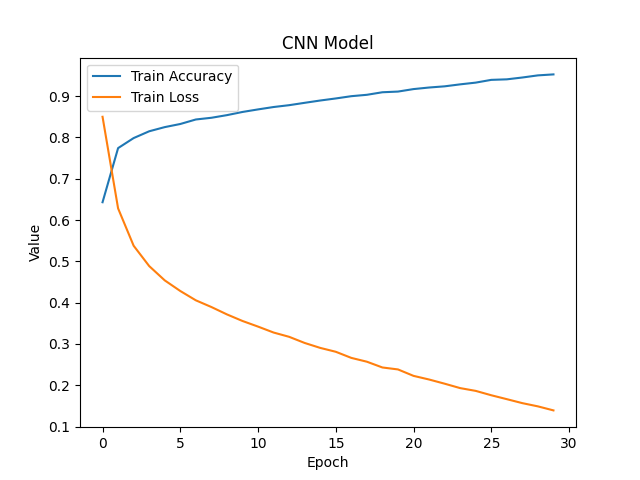
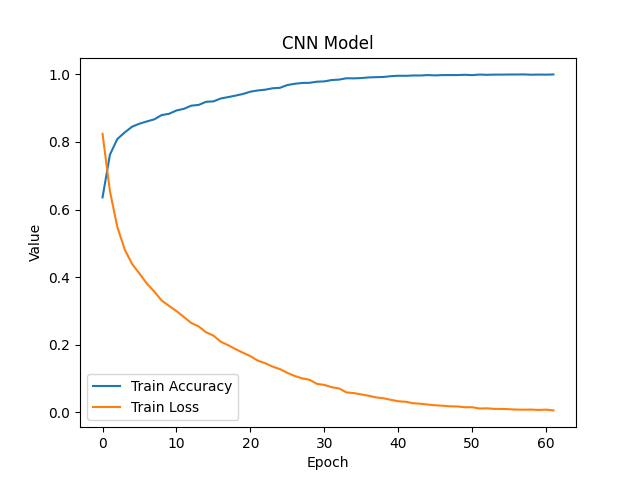
upgrade glove side

diff --git a/glove/sentimentModel.py b/glove/sentimentModel.py
@@ -1,76 +1,22 @@
 import numpy as np
 
 from constants import *
-from BiLSTM import BiLSTM
-from LSTM import LSTM
-from CNN import CNN
-from gloveEmbedding import usingGlove, getEmbeddingMatrix
-from Ensemble_CNN_BILSTM import CNN_BILSTM as En_CNN_BILSTM
-from Fusion_CNN_BILSTM import CNN_BILSTM as Fu_CNN_BILSTM
+from models.BILSTM import BiLSTM
+from models.LSTM import LSTM
+from models.CNN import CNN
+from gloveEmbedding import usingGlove2, getEmbeddingMatrix
+from models.Ensemble_CNN_BILSTM import CNN_BILSTM as En_CNN_BILSTM
+from models.Fusion_CNN_BILSTM import CNN_BILSTM as Fu_CNN_BILSTM
 
 # Dataset Prepare
-title_train_ids, text_train_ids, train_labels, title_val_ids, text_val_ids, val_labels, title_test_ids, text_test_ids, test_labels, tokenizer = usingGlove()
-# vocab_size = len(tokenizer.word_index) + 1
-# emb_mat = getEmbeddingMatrix(tokenizer, vocab_size)
+title_train_ids, text_train_ids, train_labels, title_val_ids, text_val_ids, val_labels, title_test_ids, text_test_ids, test_labels, tokenizer = usingGlove2()
+vocab_size = len(tokenizer.word_index) + 1
+emb_mat = getEmbeddingMatrix(tokenizer, vocab_size)
 
 # # MODEL IMPLEMENTATION AND TRAINING
-# def startLearning():
-#   print('TRAINING USING LSTM MODEL.........................')
-#   lstm = LSTM(
-#     title_train_ids,
-#     text_train_ids,
-#     train_labels,
-#     title_val_ids,
-#     text_val_ids,
-#     val_labels,
-#     vocab_size,
-#     emb_mat
-#   )
-
-#   lstm.trainModel()
-#   lstm.testModel(
-#     [np.array(title_test_ids), np.array(text_test_ids)], 
-#     np.array(test_labels)
-#   )
-  
-#   print('TRAINING USING CNN MODEL.......................')
-#   cnn = CNN(
-#     title_train_ids,
-#     text_train_ids,
-#     train_labels,
-#     title_val_ids,
-#     text_val_ids,
-#     val_labels,
-#     vocab_size,
-#     emb_mat
-#   )
-
-#   cnn_model = cnn.trainModel()
-#   cnn.testModel(
-#     [np.array(title_test_ids), np.array(text_test_ids)], 
-#     np.array(test_labels)
-#   )
-  
-#   print('TRAINING USING BiLSTM MODEL......................')
-#   bilstm = BiLSTM(
-#     title_train_ids,
-#     text_train_ids,
-#     train_labels,
-#     title_val_ids,
-#     text_val_ids,
-#     val_labels,
-#     vocab_size,
-#     emb_mat
-#   )
-
-#   bilstm_model = bilstm.trainModel()
-#   bilstm.testModel(
-#     [np.array(title_test_ids), np.array(text_test_ids)], 
-#     np.array(test_labels)
-#   )
-  
-  # print('TRAINING USING ENSEMBLE CNN + BiLSTM MODEL.................')
-  # cnn_bilstm = En_CNN_BILSTM(
+def startLearning():
+  # print('TRAINING USING LSTM MODEL.........................')
+  # lstm = LSTM(
   #   title_train_ids,
   #   text_train_ids,
   #   train_labels,
@@ -78,15 +24,69 @@ title_train_ids, text_train_ids, train_labels, title_val_ids, text_val_ids, val_
   #   text_val_ids,
   #   val_labels,
   #   vocab_size,
-  #   bilstm_model,
-  #   cnn_model
+  #   emb_mat
   # )
-
-  # cnn_bilstm.trainModel()
-  # cnn_bilstm.testModel(
+  #
+  # lstm.trainModel()
+  # lstm.testModel(
   #   [np.array(title_test_ids), np.array(text_test_ids)], 
   #   np.array(test_labels)
   # )
+  # 
+  print('TRAINING USING CNN MODEL.......................')
+  cnn = CNN(
+    title_train_ids,
+    text_train_ids,
+    train_labels,
+    title_val_ids,
+    text_val_ids,
+    val_labels,
+    vocab_size,
+    emb_mat
+  )
+
+  cnn_model = cnn.trainModel()
+  cnn.testModel(
+    [np.array(title_test_ids), np.array(text_test_ids)], 
+    np.array(test_labels)
+  )
+  
+  print('TRAINING USING BiLSTM MODEL......................')
+  bilstm = BiLSTM(
+    title_train_ids,
+    text_train_ids,
+    train_labels,
+    title_val_ids,
+    text_val_ids,
+    val_labels,
+    vocab_size,
+    emb_mat
+  )
+
+  bilstm_model = bilstm.trainModel()
+  bilstm.testModel(
+    [np.array(title_test_ids), np.array(text_test_ids)], 
+    np.array(test_labels)
+  )
+  
+  print('TRAINING USING ENSEMBLE CNN + BiLSTM MODEL.................')
+  cnn_bilstm = En_CNN_BILSTM(
+    title_train_ids,
+    text_train_ids,
+    train_labels,
+    title_val_ids,
+    text_val_ids,
+    val_labels,
+    vocab_size,
+    bilstm_model,
+    cnn_model
+  )
+
+  cnn_bilstm.trainModel()
+  cnn_bilstm.testModel(
+    [np.array(title_test_ids), np.array(text_test_ids)], 
+    np.array(test_labels)
+  )
 
   # print('TRAINING USING FUSION CNN + BiLSTM MODEL.................')
   # cnn_bilstm = Fu_CNN_BILSTM(
@@ -106,4 +106,4 @@ title_train_ids, text_train_ids, train_labels, title_val_ids, text_val_ids, val_
   #   np.array(test_labels)
   # )
 
-  # print('TRAINING DONE.............................')
+  print('TRAINING DONE.............................')

diff --git a/glove/gloveEmbedding.py b/glove/gloveEmbedding.py
@@ -63,6 +63,20 @@ def getDataset(file_name):
 
   return train_test_split(title, text, label, test_size=0.1)
 
+def getDataset2(file_name):
+  # GET FROM CSV (ORIGINAL TEXT)
+  print('READING DATASET FROM FILE................................')
+  file = pd.read_csv(PATH + file_name)
+
+  title = file['Title'].apply(str)[:8000]
+  text = file['Content'].apply(str)[:8000]
+
+  # GET LABELS
+  label = pd.Series([status for status in file['Rating'].apply(int)[:8000]])
+  label = utils.to_categorical(label - 1, num_classes=3)
+
+  return train_test_split(title, text, label, test_size=0.1)
+
 def usingGlove():
   title_train, title_test, text_train, text_test, train_labels, test_labels = getDataset('data.csv')
 
@@ -82,6 +96,24 @@ def usingGlove():
 
   with open(PATH + MODEL + TOKENIZER_MODEL, 'wb') as pkl_file:
     pkl.dump(tokenizer, pkl_file)
+
+  title_train_ids, text_train_ids = prepareData(title_train, text_train, tokenizer)
+  title_val_ids, text_val_ids = prepareData(title_val, text_val, tokenizer)
+  title_test_ids, text_test_ids = prepareData(title_test, text_test, tokenizer)
+
+  return title_train_ids, text_train_ids, train_labels, title_val_ids, text_val_ids, val_labels, title_test_ids, text_test_ids, test_labels, tokenizer
+
+def usingGlove2():
+  title_train, title_test, text_train, text_test, train_labels, test_labels = getDataset2('data.csv')
+
+  title_train, title_val, text_train, text_val, train_labels, val_labels = train_test_split(title_train, text_train, train_labels, test_size=0.1)
+
+  title_train, text_train = tokenizeData(title_train, text_train)
+  title_test, text_test = tokenizeData(title_test, text_test)
+  title_val, text_val = tokenizeData(title_val, text_val)
+
+  with open(PATH + MODEL + TOKENIZER_MODEL, 'rb') as pkl_file:
+    tokenizer = pkl.load(pkl_file)
 
   title_train_ids, text_train_ids = prepareData(title_train, text_train, tokenizer)
   title_val_ids, text_val_ids = prepareData(title_val, text_val, tokenizer)

diff --git a/glove/models/Ensemble_CNN_BILSTM.py b/glove/models/Ensemble_CNN_BILSTM.py
@@ -43,19 +43,33 @@ class CNN_BILSTM:
         self.title_input = Input(shape=(self.train_title.shape[1],))
         self.text_input = Input(shape=(self.train_text.shape[1],))
 
+        cnn = load_model(PATH + MODEL + CNN_MODEL)
+        # Rename the first model
+        cnn_renamed = Model(inputs=cnn.inputs, outputs=cnn.outputs, name='cnn_model')
+        cnn_renamed.set_weights(cnn.get_weights())
+        cnn_renamed.compile(optimizer=cnn.optimizer, loss=cnn.loss, metrics=cnn.metrics)
+
+        # Load the second model
+        bilstm = load_model(PATH + MODEL + BILSTM_MODEL)
+
+        # Rename the second model
+        bilstm_renamed = Model(inputs=bilstm.inputs, outputs=bilstm.outputs, name='bilstm_model')
+        bilstm_renamed.set_weights(bilstm.get_weights())
+        bilstm_renamed.compile(optimizer=bilstm.optimizer, loss=bilstm.loss, metrics=bilstm.metrics)
+
         # Get the predictions from the BiLSTM model
-        lstm_predictions = self.bilstm([self.title_input, self.text_input])
+        lstm_predictions = bilstm_renamed([self.title_input, self.text_input])
 
         # Get the predictions from the CNN model
-        cnn_predictions = self.cnn([self.title_input, self.text_input])
+        cnn_predictions = cnn_renamed([self.title_input, self.text_input])
 
         # Average predictions
         average_predictions = Average()([lstm_predictions, cnn_predictions])
 
         # Add a dense layer
-        # dense_layer = Dense(256, activation='relu')(average_predictions)
         dense_layer = Dense(128, activation='relu')(average_predictions)
-        dense_layer = Dense(64, activation='relu')(dense_layer)
+        # dense_layer = Dense(32, activation='relu')(lstm_predictions)
+        dense_layer = Dense(32, activation='relu')(dense_layer)
 
         # Add another dense layer for the final output
         return Dense(3, activation='softmax')(dense_layer)

diff --git a/glove/models/BILSTM.py b/glove/models/BILSTM.py
@@ -1,4 +1,4 @@
-from keras.layers import Input, Bidirectional, LSTM, Dense, Dropout, GlobalMaxPooling1D
+from keras.layers import Input, Bidirectional, LSTM, Dense, Dropout, GlobalMaxPooling1D, Concatenate
 from keras.models import Model, load_model
 from tensorflow.keras.layers import Embedding, Average
 from tensorflow.keras.optimizers import Adam
@@ -40,7 +40,7 @@ class BiLSTM:
 
     def getOutput(self):
         hidden_size = 256
-        DROP = 0.3
+        DROP = 0.2
 
         self.title_input = Input(shape=(self.train_title.shape[1],))
         title_embedding = Embedding(self.vocab_size, EMBEDDING_DIM, input_length=self.train_title.shape[1], weights=[self.embedding_matrix], trainable=TRAINABLE)(self.title_input)
@@ -56,10 +56,10 @@ class BiLSTM:
 
         # Global Max Pooling layer for text
 
-        average = Average()([title_lstm, text_lstm])
+        concat = Concatenate(axis=-1)([title_lstm, text_lstm])
 
         # final = Dense(256, activation='relu')(average)
-        final = Dense(128, activation='relu')(average)
+        final = Dense(128, activation='relu')(concat)
         final = Dense(64, activation='relu')(final)
 
         return Dense(3, activation='softmax')(final)
@@ -68,7 +68,7 @@ class BiLSTM:
         # Build the model
         model_BiLSTM = Model(inputs=[self.title_input, self.text_input], outputs=self.output)
 
-        opt = Adam(learning_rate=0.00001)
+        opt = Adam(learning_rate=0.00001) 
         model_BiLSTM.compile(loss='categorical_crossentropy', optimizer=opt, metrics=['accuracy'])
         model_BiLSTM.summary()
 

diff --git a/glove/models/LSTM.py b/glove/models/LSTM.py
@@ -1,6 +1,6 @@
 from keras.models import Model, load_model
 from tensorflow.keras.layers import Embedding
-from keras.layers import Input, Embedding, LSTM as LSTM_model, Dropout, Dense, Average
+from keras.layers import Input, Embedding, LSTM as LSTM_model, Dropout, Dense, Average, Concatenate
 from tensorflow.keras import utils
 from sklearn.metrics import classification_report, accuracy_score
 from keras.callbacks import EarlyStopping, ModelCheckpoint
@@ -40,7 +40,7 @@ class LSTM:
 
     def getOutput(self):
         hidden_size = 256
-        DROP = 0.3
+        DROP = 0.2
 
         self.title_input = Input(shape=(self.train_title.shape[1],))
         title_embedding = Embedding(self.vocab_size, EMBEDDING_DIM, input_length=self.train_title.shape[1], weights=[self.embedding_matrix], trainable=TRAINABLE)(self.title_input)
@@ -52,9 +52,9 @@ class LSTM:
         text_lstm = LSTM_model(hidden_size)(text_embedding)
         text_lstm = Dropout(DROP)(text_lstm)
 
-        average = Average()([title_lstm, text_lstm])
+        concat = Concatenate(axis=-1)([title_lstm, text_lstm])
 
-        final = Dense(128, activation='relu')(average)
+        final = Dense(128, activation='relu')(concat)
         final = Dense(64, activation='relu')(final)
 
         return Dense(3, activation='softmax')(final)

diff --git a/glove/models/CNN.py b/glove/models/CNN.py
@@ -39,7 +39,7 @@ class CNN:
         # Input for title
         num_filters = 256
         filter_sizes = [3, 4, 5, 6]
-        DROP = 0.3
+        DROP = 0.2
         
         self.title_input = Input(shape=(self.train_title.shape[1],))
         title_embedding = Embedding(self.vocab_size, EMBEDDING_DIM, input_length=self.train_title.shape[1], weights=[self.embedding_matrix], trainable=TRAINABLE)(self.title_input)
@@ -70,7 +70,7 @@ class CNN:
         text_drop = Dropout(DROP)(text_flat)
 
         # Average two inputs
-        average = Average()([title_drop, text_drop])
+        average = Concatenate(axis=-1)([title_drop, text_drop])
 
         # Additional layers of the model
         # dense = Dense(256, activation='relu')(average)

diff --git a/glove/constants.py b/glove/constants.py
@@ -4,7 +4,7 @@ EPOCH = 1000
 BATCH_SIZE = 8
 EMBEDDING_DIM = 300
 TRAINABLE = True
-STOP_PATIENCE=10
+STOP_PATIENCE=25
 
 # FILES
 CNN_MODEL = 'CNN_MODEL.keras'
